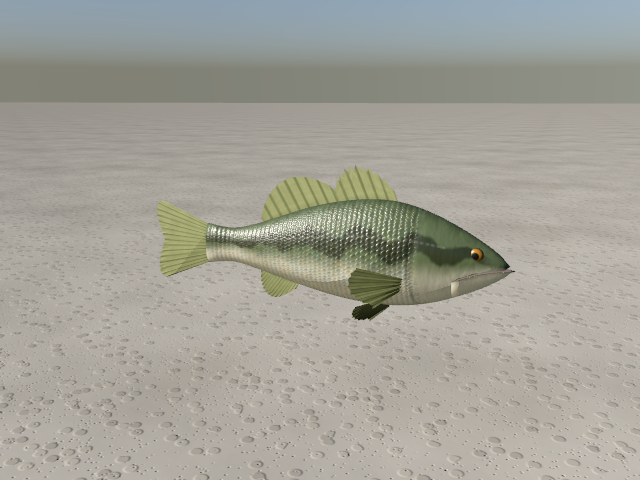
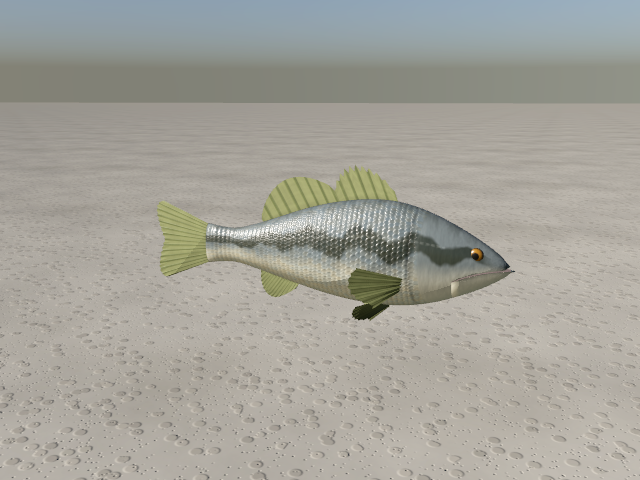
Fish pack: match skin colors to reference photos

Changed region(s): [[0.3125, 0.4062, 0.8125, 0.5938]]

diff --git a/Sources/RealMaterials/Library/Fish.swift b/Sources/RealMaterials/Library/Fish.swift
@@ -29,16 +29,16 @@ public extension MaterialLibrary {
             }
         }
         return [
-            skin("smallmouth-skin", 0x5A4828, 0xC6B892, 0x2E2210, rows: 72, bnd: 0.6, pat: 1, str: 0.62, seed: 9101),
-            skin("spotted-skin", 0x4E5634, 0xDCD8C4, 0x262412, rows: 64, bnd: 0.58, pat: 3, str: 0.85, seed: 9102),
-            skin("largemouth-skin", 0x46523A, 0xE0DCC8, 0x1F2416, rows: 64, bnd: 0.6, pat: 2, str: 0.85, seed: 9103),
-            skin("ozark-bass-skin", 0x7A6E3E, 0xC8BC80, 0x231A12, rows: 42, bnd: 0.62, pat: 4, str: 0.9, seed: 9104),
-            skin("longear-skin", 0x4E3E22, 0xD8702A, 0x3A9EAE, rows: 40, bnd: 0.66, pat: 5, str: 0.9, op: 0.29, seed: 9105),
-            skin("green-sunfish-skin", 0x56604A, 0xCDB050, 0x4A9AA8, rows: 46, bnd: 0.6, pat: 5, str: 0.8, op: 0.28, seed: 9106),
-            skin("bluegill-skin", 0x5A5032, 0xC88E44, 0x2A2A22, rows: 42, bnd: 0.62, pat: 1, str: 0.55, op: 0.29, seed: 9107),
-            skin("channel-cat-skin", 0x3E464E, 0xDCDCD6, 0x16181C, rows: 0, bnd: 0.7, pat: 6, str: 0.9, op: 0.21, seed: 9108),
-            skin("flathead-skin", 0x6A6450, 0xD8D0B8, 0x3A3424, rows: 0, bnd: 0.62, pat: 7, str: 0.8, op: 0.2, seed: 9109),
-            skin("drum-skin", 0x8A7C5C, 0xD8CEB0, 0x5A5444, rows: 52, bnd: 0.5, pat: 0, str: 0, op: 0.26, seed: 9110),
+            skin("smallmouth-skin", 0x7B6A55, 0xC0B090, 0x2E2210, rows: 72, bnd: 0.6, pat: 1, str: 0.62, seed: 9101),
+            skin("spotted-skin", 0x4A5A4A, 0xD0CCB4, 0x262412, rows: 64, bnd: 0.58, pat: 3, str: 0.85, seed: 9102),
+            skin("largemouth-skin", 0x5E6668, 0xD8D4C0, 0x1F2416, rows: 64, bnd: 0.6, pat: 2, str: 0.85, seed: 9103),
+            skin("ozark-bass-skin", 0x6A5A40, 0xC8BC80, 0x231A12, rows: 42, bnd: 0.62, pat: 4, str: 0.9, seed: 9104),
+            skin("longear-skin", 0x3E3424, 0xC0702E, 0x3A9EAE, rows: 40, bnd: 0.66, pat: 5, str: 0.9, op: 0.29, seed: 9105),
+            skin("green-sunfish-skin", 0x7A7C6C, 0xC8B480, 0x4A9AA8, rows: 46, bnd: 0.6, pat: 5, str: 0.8, op: 0.28, seed: 9106),
+            skin("bluegill-skin", 0x5A4E36, 0x9A7A4C, 0x2A2A22, rows: 42, bnd: 0.62, pat: 1, str: 0.55, op: 0.29, seed: 9107),
+            skin("channel-cat-skin", 0x52525E, 0xC8C8C8, 0x16181C, rows: 0, bnd: 0.7, pat: 6, str: 0.9, op: 0.21, seed: 9108),
+            skin("flathead-skin", 0x6E6E68, 0xB8B2A4, 0x3A3424, rows: 0, bnd: 0.62, pat: 7, str: 0.8, op: 0.2, seed: 9109),
+            skin("drum-skin", 0xA89A78, 0xD0C4A4, 0x5A5444, rows: 52, bnd: 0.5, pat: 0, str: 0, op: 0.26, seed: 9110),
             fin("bass-fin", 0x3E3220, 0x5A4A30, 0x2A2014, rays: 14, margin: 0.06, seed: 9121),
             fin("largemouth-fin", 0x56603A, 0x7E8458, 0x3C4228, rays: 14, margin: 0, seed: 9122),
             fin("sunfish-fin", 0x6A5838, 0x8A7450, 0x2E2A22, rays: 12, margin: 0.05, seed: 9123),
